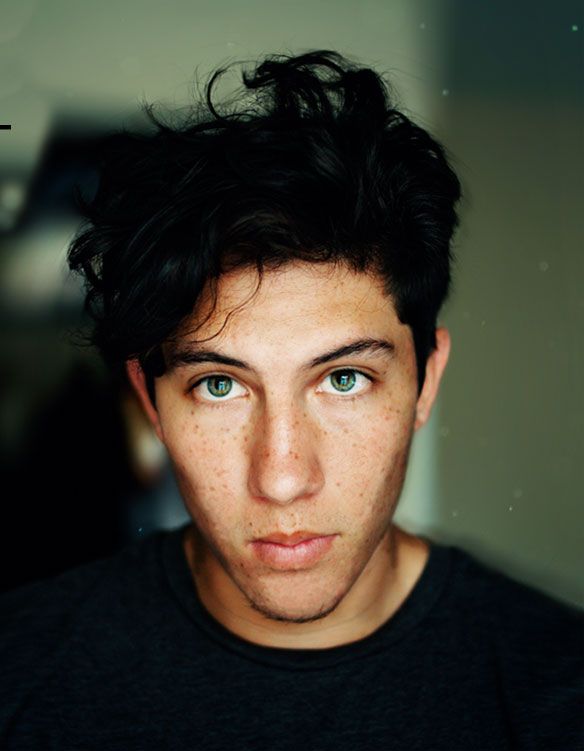
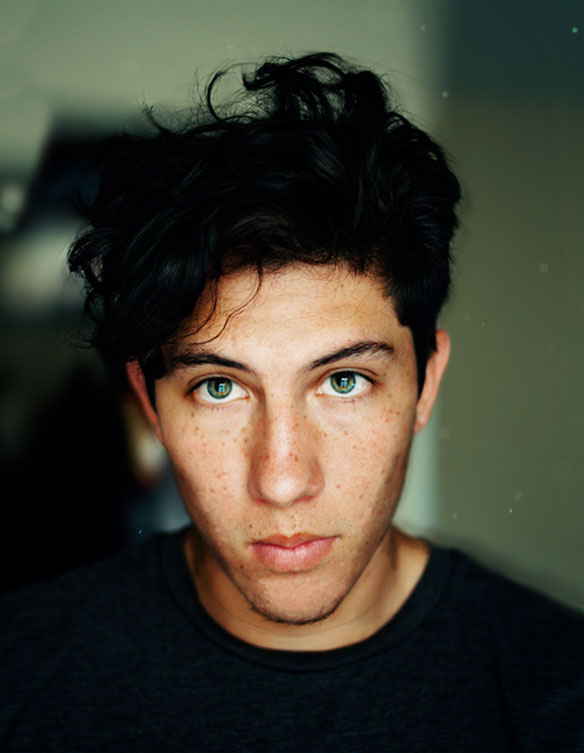
up to box3 portrait done

diff --git a/css/style.css b/css/style.css
@@ -3798,12 +3798,14 @@ input:focus {
 
 .container-major__num1 {
   top: 159px;
-  content: '01.';
 }
 
 .container-major__num2 {
   top: 585px;
-  content: '02.';
+}
+
+.container-major__num3 {
+  top: 1127px;
 }
 
 body {
@@ -4066,10 +4068,15 @@ body {
   letter-spacing: 2px;
 }
 
+.fashion-figure__figcaption_text-end {
+  display: none;
+}
+
 .fashion-figure__figcaption_text {
   font-size: 0.875rem;
   color: #000000;
   padding-top: 0.9375rem;
+  line-height: 1.6;
 }
 
 .fashion-figure__button {
@@ -4090,6 +4097,82 @@ body {
 }
 
 .fashion-figure__button:active {
+  background: #3f3e3e;
+  color: #ffffff;
+}
+
+.container-portrait {
+  margin-top: 9.75rem;
+  position: relative;
+}
+
+.portrait-figure {
+  max-width: 250px;
+  margin: 0 auto;
+  position: relative;
+}
+
+.container-portrait-figure__img {
+  margin: 0 auto;
+  max-width: 252px;
+  height: 273px;
+}
+
+.portrait-figure__figcaption_title {
+  position: absolute;
+  top: -2.6875rem;
+  left: 50%;
+  -webkit-transform: translateX(-50%);
+          transform: translateX(-50%);
+  font-weight: 300;
+  font-size: 6.25rem;
+  text-transform: uppercase;
+  font-size: 2.25rem;
+  text-align: center;
+}
+
+.portrait-figure__figcaption_title::after {
+  position: absolute;
+  top: -20px;
+  left: -43px;
+  content: 'Portrait';
+  font-weight: 600;
+  font-size: 3.75rem;
+  text-transform: uppercase;
+  color: rgba(241, 241, 241, 0.8);
+  z-index: -1;
+  letter-spacing: 2px;
+}
+
+.portrait-figure__figcaption_text-end {
+  display: none;
+}
+
+.portrait-figure__figcaption_text {
+  font-size: 0.875rem;
+  color: #000000;
+  padding-top: 0.9375rem;
+  line-height: 1.6;
+}
+
+.portrait-figure__button {
+  display: inline-block;
+  text-transform: uppercase;
+  text-decoration: none;
+  font-weight: 600;
+  color: #000;
+  font-size: 1.125rem;
+  padding: 1.5625rem 5.75rem;
+  border: 1px solid #000;
+  display: block;
+  max-width: 250px;
+  margin: 0.9375rem auto 0;
+  font-size: 1rem;
+  padding: 1.25rem 0;
+  text-align: center;
+}
+
+.portrait-figure__button:active {
   background: #3f3e3e;
   color: #ffffff;
 }
@@ -4139,6 +4222,9 @@ body {
   }
   .container-major__num2 {
     top: 952px;
+  }
+  .container-major__num3 {
+    top: 1785px;
   }
   .nav-topMenu {
     display: block !important;
@@ -4299,14 +4385,91 @@ body {
     padding-top: 2.5rem;
     padding-left: 1.25rem;
   }
-  .fashion-figure__figcaption_text-second {
-    display: block;
+  .fashion-figure__figcaption_text-ellipsis {
+    display: none;
+  }
+  .fashion-figure__figcaption_text-end {
+    display: inline;
   }
   .fashion-figure__button {
     position: absolute;
     display: inline-block;
     bottom: 124px;
     right: 94px;
+    max-width: 260px;
+    width: 260px;
+    padding: 1.5625rem 0;
+  }
+  .container-portrait {
+    max-width: 46.75rem;
+    margin: 16.25rem auto 0;
+  }
+  .portrait-figure {
+    max-width: 100%;
+    display: -ms-flexbox;
+    display: -webkit-box;
+    display: flex;
+    -ms-flex-pack: end;
+    -webkit-box-pack: end;
+            justify-content: flex-end;
+  }
+  .container-portrait-figure__img {
+    margin: 0 40px 0;
+    -webkit-box-ordinal-group: 3;
+        -ms-flex-order: 2;
+            order: 2;
+    max-width: calc(100% - 40px);
+    height: 38.4375rem;
+  }
+  .portrait-figure__img {
+    -ms-flex-basis: 23.25rem;
+    -ms-flex-preferred-size: 23.25rem;
+        flex-basis: 23.25rem;
+    display: block;
+    background: url("../img/tablet_portrait.jpg") no-repeat;
+    width: 23.25rem;
+    height: 38.4375rem;
+    padding-left: 23.25rem;
+  }
+  .portrait-figure__figcaption {
+    width: 100%;
+  }
+  .portrait-figure__figcaption_title {
+    position: absolute;
+    top: 121px;
+    left: 14px;
+    -webkit-transform: none;
+            transform: none;
+    font-weight: 300;
+    font-size: 6.25rem;
+    text-transform: uppercase;
+    font-size: 4.5rem;
+    letter-spacing: 5.5px;
+    text-align: left;
+  }
+  .portrait-figure__figcaption_title::after {
+    position: absolute;
+    top: -109px;
+    left: -6px;
+    font-size: 9.375rem;
+    font-weight: 400;
+  }
+  .portrait-figure__figcaption_text {
+    position: relative;
+    top: 221px;
+    left: 50px;
+  }
+  .portrait-figure__figcaption_text-ellipsis {
+    display: none;
+  }
+  .portrait-figure__figcaption_text-end {
+    display: inline;
+  }
+  .portrait-figure__button {
+    position: absolute;
+    display: inline-block;
+    bottom: 193px;
+    left: 51px;
     max-width: 260px;
     width: 260px;
     padding: 1.5625rem 0;
@@ -4322,7 +4485,10 @@ body {
     top: 438px;
   }
   .container-major__num2 {
-    top: 1217px;
+    top: 1266px;
+  }
+  .container-major__num3 {
+    top: 2185px;
   }
   .container-major::before {
     width: calc(100% - 60px);
@@ -4364,12 +4530,14 @@ body {
     margin: 7.5rem auto 0;
   }
   .fashion-figure__figcaption_title {
+    font-size: 100px;
     top: 92px;
-    left: -203px;
+    left: -156px;
   }
   .fashion-figure__figcaption_title::after {
+    font-size: 200px;
     top: 130px;
-    left: 85px;
+    left: 7px;
   }
   .fashion-figure__figcaption_text {
     max-width: 380px;
@@ -4394,12 +4562,107 @@ body {
   .fashion-figure__button {
     position: absolute;
     display: inline-block;
-    bottom: 435px;
+    bottom: 385px;
     right: 252px;
     max-width: 260px;
     width: 260px;
     padding: 1.6875rem 0;
   }
+  .fashion-figure__button:hover {
+    background: #6c6b6b;
+    color: #ffffff;
+  }
+  .fashion-figure__button:active {
+    background: #3f3e3e;
+    color: #ffffff;
+  }
+  .container-portrait {
+    max-width: 80rem;
+    margin: 160px auto 0;
+  }
+  .container-portrait-figure__img {
+    margin: 0 60px 0;
+  }
+  .portrait-figure__img {
+    -ms-flex-basis: 36.5rem;
+    -ms-flex-preferred-size: 36.5rem;
+        flex-basis: 36.5rem;
+    display: block;
+    background: url("../img/pc_portrait.jpg") no-repeat;
+    width: 36.5rem;
+    height: 46.9375rem;
+    padding-left: 36.5rem;
+  }
+  .portrait-figure__figcaption_title {
+    font-size: 100px;
+    top: 101px;
+    left: 157px;
+  }
+  .portrait-figure__figcaption_title::after {
+    font-size: 200px;
+    top: -94px;
+    left: -296px;
+  }
+  .portrait-figure__figcaption_text {
+    top: 221px;
+    left: 165px;
+  }
+  .portrait-figure__button {
+    left: 165px;
+  }
+  .portrait-figure__button:hover {
+    background: #6c6b6b;
+    color: #ffffff;
+  }
+  .portrait-figure__button:active {
+    background: #3f3e3e;
+    color: #ffffff;
+  }
+  /* .fashion-figure__figcaption_title {
+    top: 92px;
+    left: -203px;
+    &::after {
+        top: 130px;
+        left: 85px;
+    }
+}
+
+.fashion-figure__figcaption_text {
+    max-width: 380px;
+    padding-top: rem(110px);
+    padding-left: rem(128px);
+}
+
+.container-fashion-figure__img {
+    width: rem(639px);
+    max-width: rem(639px);
+    height: rem(1011px);
+}
+
+.fashion-figure__img {
+    @include flex-basis(rem(639px)); //justify-self: start;
+    display: block;
+    background: url('../img/pc_fashion.jpg') no-repeat;
+    width: rem(639px);
+    height: rem(1011px);
+    padding-left: rem(639px);
+}
+
+.fashion-figure__button {
+    position: absolute;
+    display: inline-block;
+    bottom: 435px;
+    right: 252px;
+    max-width: 260px;
+    width: 260px;
+    padding: rem(27px) 0;
+    &:hover {
+        @include whiteButtonHover;
+    }
+    &:active {
+        @include whiteButtonActive;
+    }
+} */
   .footMenu__item__socialIcons {
     display: -webkit-box;
     display: -ms-flexbox;

diff --git a/index.html b/index.html
@@ -15,6 +15,7 @@
   <div class="container-major">
     <span class="container-major__num container-major__num1">01.</span>
     <span class="container-major__num container-major__num2">02.</span>
+    <span class="container-major__num container-major__num3">03.</span>
     <header class="header">
       <div class="topMenu-open__mobIco">
         <svg class="svg-icon__mobIco-open">
@@ -88,15 +89,27 @@
           <!-- /.container-fashion-figure__img -->
           <figcaption class="fashion-figure__figcaption">
             <h3 class="fashion-figure__figcaption_title">Fashion</h3>
-            <p class="fashion-figure__figcaption_text">We believe that high-end fashion
-              <span class="fashion-figure__figcaption_text-second">photography shouldn’t be</span> exclusive to high-end fashion models.</p>
+            <p class="fashion-figure__figcaption_text">We believe that high-end fashion<br> photography shouldn’t be<span class="fashion-figure__figcaption_text-ellipsis">...</span><span class="fashion-figure__figcaption_text-end"><br>exclusive to high-end fashion models.</span> </p>
           </figcaption>
         </figure>
         <a href="#" class="fashion-figure__button">View more</a>
       </div>
       <!-- /.container-fashion -->
-      
-      
+
+      <div class="container-portrait">
+        <figure class="portrait-figure">
+          <div class="container-portrait-figure__img">
+            <img class="portrait-figure__img" src="img/small_portrait.jpg" alt="block portrait image">
+          </div>
+          <!-- /.container-portrait-figure__img -->
+          <figcaption class="portrait-figure__figcaption">
+            <h3 class="portrait-figure__figcaption_title">Portrait</h3>
+            <p class="portrait-figure__figcaption_text">If you want an experienced unique <br>family portraits or professional senior<span class="portrait-figure__figcaption_text-ellipsis">...</span><span class="portrait-figure__figcaption_text-end"><br> portraits, we've got them all. </span> </p>
+          </figcaption>
+        </figure>
+        <a href="#" class="portrait-figure__button">View more</a>
+      </div>
+      <!-- /.container-portrait -->
     </main>
   </div>
   <!-- /.container-major -->
